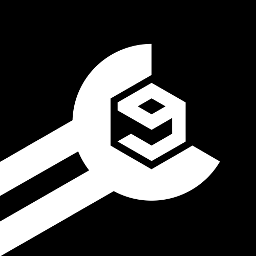
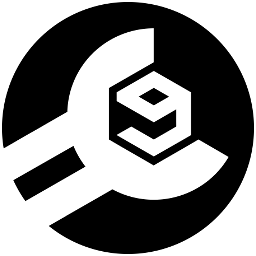
symbol is now round; shields.io on README.md

diff --git a/README.md b/README.md
@@ -1,6 +1,13 @@
 ![banner image](/symbol/banner.png)
 
-# <img src="/src/icon.png" width="28px"> 9GAG Controls
+<img src="/src/icon.png" alt="Google Inc. logo" title="9GAG Controls" align="right" height="96" width="96" />
+
+# 9GAG Controls
+[![chrome version][chromeWebStoreImg]][chromeWebStore]
+[![chrome users][chromeUsersImg]][chromeWebStore]
+[![issues open][issuesImg]][issues]
+
+
 A Google Chrome browser extension that tries to make your 9GAG experience better.  
 It adds **controls to video posts**, regulates the **audio volume**, **removes ads**, hides promoted content and allows you to **zoom in on posts**.
 
@@ -8,6 +15,9 @@ Available on the chrome web store. Just click [here](https://chrome.google.com/w
 
 
 ## Changelog
+
+### v1.0.2 (in development)
+- Icon is now round.
 
 ### v1.0.1 (2020.05.05)
 - New icon image. It shows a wrench that is put on the 9GAG logo.
@@ -24,3 +34,11 @@ Available on the chrome web store. Just click [here](https://chrome.google.com/w
 - Hide various disruptive promotions for 9GAG's own products like their mobile apps.
 - Hide Connatix video posts. Instead this message is displayed: "9GAG Controls: Promoted video from Connatix hidden. Click to reveal."
 - Hide Facebook and Pinterest share buttons.
+
+
+
+[chromeWebStore]: https://chrome.google.com/webstore/detail/9gag-controls/ggaflcnplcdgjodokhjdefdobpdhdnjm
+[chromeWebStoreImg]: https://img.shields.io/chrome-web-store/v/ggaflcnplcdgjodokhjdefdobpdhdnjm?label=latest%20version&logo=google-chrome&logoColor=white
+[chromeUsersImg]: https://img.shields.io/chrome-web-store/users/ggaflcnplcdgjodokhjdefdobpdhdnjm?label=users&logo=google-chrome&logoColor=white
+[issues]: https://github.com/niklas-englert/9GAG-Controls/issues
+[issuesImg]: https://img.shields.io/github/issues/niklas-englert/9GAG-Controls
